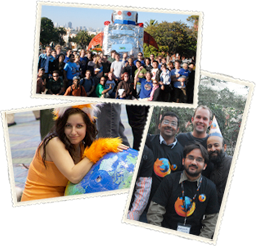
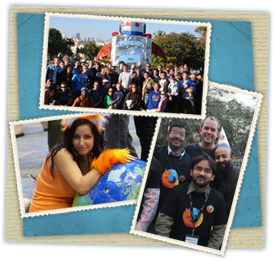
Improve "About" page styling

diff --git a/media/css/main.css b/media/css/main.css
@@ -18,7 +18,7 @@ html[dir='rtl'].js .js-hide, html[dir='rtl'] .hide {
 }
 
 body.box-content #main-content {
-    background: #f8f8f8;
+    background: #fff;
     border-radius: 11px;
     -moz-border-radius: 11px;
     -webkit-border-radius: 11px;
@@ -113,6 +113,12 @@ background-image: -moz-linear-gradient(
 }
 
 /** About Page */
+#body-about #main-content {
+    background-image: url(../img/about-bg.png);
+    background-position: 0 120px;
+    background-repeat: no-repeat;
+}
+
 #photo-collage {
     float: right;
     margin: -45px -5px 0 0;
@@ -121,15 +127,15 @@ background-image: -moz-linear-gradient(
 .key-info {
     background: left top no-repeat;
     float: left;
-    margin: 30px 0 0;
-    padding: 0 15px 0 85px;
-    width: 265px;
+    margin: 60px 0 0;
+    padding: 0 20px 0 110px;
+    width: 235px;
 }
 
 .key-info h2 {
     color: #1e4262;
     font-size: 1.1em;
-    margin: 0 0 6px;
+    margin: 0;
 }
 
 .key-info p {

diff --git a/apps/landing/templates/landing/about.html b/apps/landing/templates/landing/about.html
@@ -1,6 +1,7 @@
 {% extends "base.html" %}
 
 {% block page_title %}{{ _('About Mozillians') }}{% endblock %}
+{% block body_id %}about{% endblock %}
 {% block body_classes %}box-content{% endblock %}
 
 {% block main_content %}
